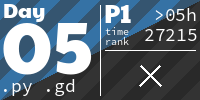
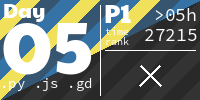
Tiles

Changed region(s): [[0.0, 0.0, 0.51, 1.0], [0.45, 0.0, 1.0, 0.57], [0.09, 0.33, 0.18, 0.63]]

diff --git a/README.md b/README.md
@@ -17,10 +17,10 @@
 ## Scores
 <!-- AOC TILES BEGIN -->
 <h1 align="center">
-  Advent of Code - 111/488 ⭐
+  Advent of Code - 113/488 ⭐
 </h1>
 <h1 align="center">
-  2024 - 37 ⭐ - Rust
+  2024 - 38 ⭐ - Rust
 </h1>
 <a href="aoc-2024/src/day01.rs">
   <img src=".aoc_tiles/tiles/2024/01.png" width="161px">
@@ -219,5 +219,11 @@
 </h1>
 <a href="2019/d1/src/main.rs">
   <img src=".aoc_tiles/tiles/2019/01.png" width="161px">
+</a>
+<h1 align="center">
+  2015 - 1 ⭐ - JavaScript
+</h1>
+<a href="BitBurnerAOC/Data/2015/1/main.js">
+  <img src=".aoc_tiles/tiles/2015/01.png" width="161px">
 </a>
 <!-- AOC TILES END -->
